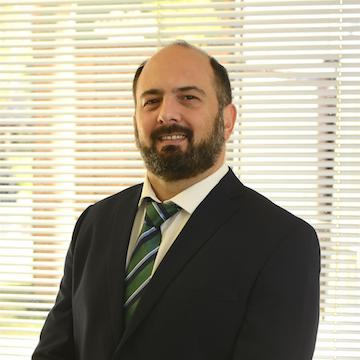
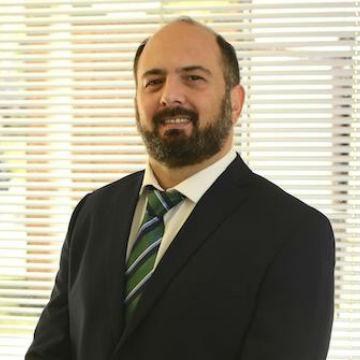
Adjusting team pictures and minor details

diff --git a/index.html b/index.html
@@ -546,7 +546,7 @@
 
           <div class="col-lg-3 col-md-6 wow fadeInUp" data-wow-delay="1s">
             <div class="member">
-              <img src="img/image-2018-10-31.jpg" class="img-fluid" alt="">
+              <img src="img/Bruno.jpg" class="img-fluid" alt="">
               <div class="member-info">
                 <div class="member-info-content">
                   <h4>Bruno Geninatti</h4>
